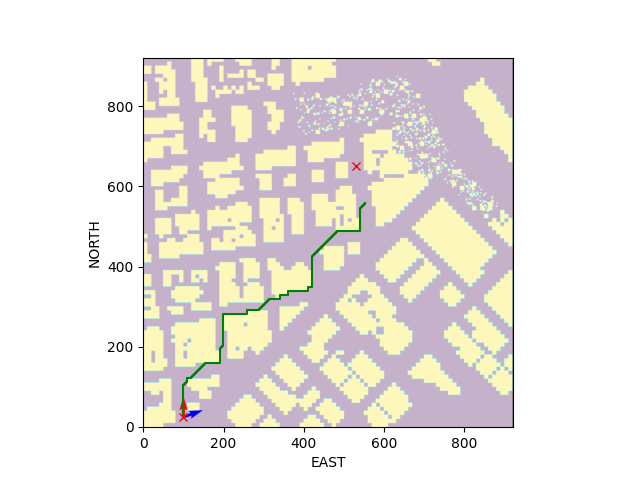
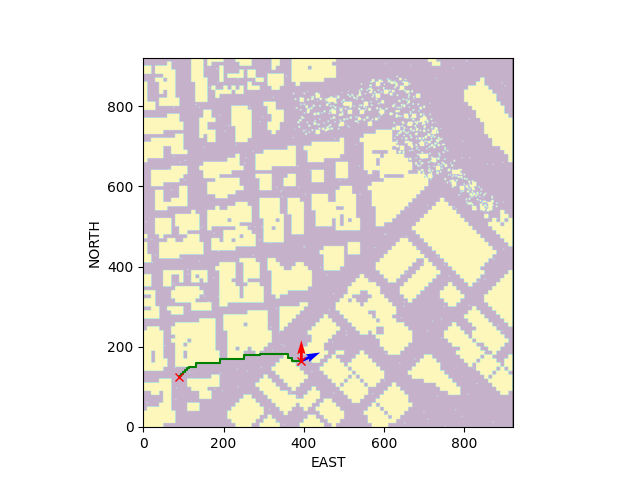
1. Added random obstacle generator. 2. Code refactoring

diff --git a/collision_avoidance_simulation.py b/collision_avoidance_simulation.py
@@ -1,7 +1,7 @@
 import config_extractor as config
 import map as mp
 import numpy as np
-from LIDAR_simulation import LIDAR, get_obstacle_vector
+from LIDAR_simulation import LIDAR, get_vector_angle
 from typing import List
 from math import cos, sin
 import matplotlib.pyplot as plt
@@ -9,7 +9,7 @@ import matplotlib.pyplot as plt
 """ === Functions to get Vector Field Histogram === """
 
 
-def show_histogram(h: np.array, grid: np.array, current_location: tuple, steering_direction=None, skeleton=None) -> None:
+def show_histogram(h: np.array, current_location: tuple, steering_direction=None, skeleton=None, grid=None, target_node=None) -> None:
     """
     The function is using plt to plot the histogram and
     the map of the environment as subplots
@@ -26,20 +26,22 @@ def show_histogram(h: np.array, grid: np.array, current_location: tuple, steerin
     ax1.set_ylabel('Probability')
     ax1.set_title('Vector Field Histogram')
     # plot grid
-    ax2.imshow(grid, origin='lower')
-    if skeleton: ax2.imshow(skeleton, cmap='Greys', origin='lower', alpha=0.7)
-    ax2.set_xlabel('North')
-    ax2.set_ylabel('East')
-    ax2.set_title('Environment map')
-    # show the current location
-    ax2.plot(current_location[1], current_location[0], 'rx')
+    if grid is not None:
+        ax2.imshow(grid, origin='lower')
+        if skeleton: ax2.imshow(skeleton, cmap='Greys', origin='lower', alpha=0.7)
+        ax2.set_xlabel('North')
+        ax2.set_ylabel('East')
+        ax2.set_title('Environment map')
+        # show the current location
+        ax2.plot(current_location[1], current_location[0], 'rx')
+        ax2.figure.set_size_inches(10, 10)
     # show 0 angle vector
     plt.quiver(current_location[1], current_location[0], sin(0) * 1, cos(0) * 1, color='r')
     # show the steering direction
     if steering_direction: plt.quiver(current_location[1], current_location[0],
                                       sin(np.radians(steering_direction)), cos(np.radians(steering_direction)),
                                       color='b')
-    ax2.figure.set_size_inches(10, 10)
+    if target_node: plt.plot(target_node[1], target_node[0], 'gx')
     # adjusting spacing between subplots
     plt.tight_layout()
     plt.show()
@@ -137,8 +139,6 @@ def get_certainty_values(measurements: List[tuple]) -> np.array:
 def smooth_histogram(h: List[int], l: int) -> np.array:
     """ Initial mapping may appear ragged and cause errors in the selection of the steering direction
     The function suggest to consider smooth the graph for better angle selection
-    Smoothing formula:
-    h[i] =
     :parameter
     h is a polar obstacle density
     l is a constant integer, chosen by experiment or simulation.
@@ -146,7 +146,6 @@ def smooth_histogram(h: List[int], l: int) -> np.array:
     :returns: smoothed polar obstacle density as List[float]
     """
     hist = np.array(h, dtype=int)
-    print(hist)
     smoothed_data = []
     # cumulative = 0 # cumulative sum
     for i in range(len(hist)):
@@ -227,7 +226,7 @@ def get_vfh(measurements: List[tuple], alpha: int, b: int, a=None) -> np.array:
     return normalized_histogram
 
 
-def get_rotation_angle(h: np.array, next_node=None, current_node=None, threshold=0.0) -> int:
+def get_rotation_angle(h: np.array, current_node: tuple, next_node=None, threshold=0.0) -> int:
     """ Get the angle with the lowest probability of the obstacles ahead 
     :param h is histogram represented as np.array with a shape (n, 0)
     :param threshold in % specifies the minimum obstacle probability acceptable as obstacle-free path
@@ -236,8 +235,6 @@ def get_rotation_angle(h: np.array, next_node=None, current_node=None, threshold
     """
     # determining angle that is the closest to the target point
     obstacle_free_sectors: List[int] = np.where(h <= threshold)[0]
-    print(obstacle_free_sectors)
-    print(h)
     assert len(obstacle_free_sectors) > 0
     # merge neighbor sectors
     merged_sectors: List[list] = []
@@ -257,19 +254,15 @@ def get_rotation_angle(h: np.array, next_node=None, current_node=None, threshold
             wide_sector.append(current_value)
             merged_sectors.append(wide_sector)
             wide_sector = []
-    desired_angle = get_obstacle_vector(next_node=next_node, current_node=current_node)*180/np.pi
+    desired_angle = get_vector_angle(next_node=next_node, current_node=current_node) * 180 / np.pi
     # select the angle closest to the desired angle
     if desired_angle < 0:
         desired_angle += 360
     desired_angle = np.floor(desired_angle/config.get('sector_angle'))
-    print('DESIRED ANGLE: ', desired_angle*config.get('sector_angle')) # TODO: remove print statements
-    # print('OBSTACLE FREE SECTORS', obstacle_free_sectors, len(obstacle_free_sectors))
     minimums_diff = list(map(lambda x: abs(x-desired_angle), obstacle_free_sectors))
     best_angle = obstacle_free_sectors[minimums_diff.index(min(minimums_diff))]
     # convert angle to degrees
     best_angle *= config.get('sector_angle')
-    # print('Differences: ', minimums_diff, len(obstacle_free_sectors), minimums_diff.index(min(minimums_diff)))
-    # print('BEST ANGLE: ', best_angle)
     return best_angle
 
 
@@ -298,7 +291,8 @@ if __name__ == '__main__':
     histogram = get_vfh(measurements=lidar.get_values(),
                         alpha=sector_angle, b=b)
     """ Path selection with lowest probability of obstacles """
-    angle = get_rotation_angle(h=histogram, threshold=config.get('vfh_threshold'))
+    angle = get_rotation_angle(h=histogram, threshold=config.get('vfh_threshold'),
+                               current_node=wheelchair.current_position)
     print('NEXT ROTATION ANGLE and VALUE')
     print(angle)
     wheelchair.current_angle = float(angle) # update wheelchair steering direction

diff --git a/behavioral_model.py b/behavioral_model.py
@@ -4,8 +4,9 @@ from typing import Optional, Tuple
 from enum import Enum
 from collision_avoidance_simulation import get_vfh, get_rotation_angle, show_histogram
 from math import sin, cos, radians
-from LIDAR_simulation import LIDAR, get_distance
+from LIDAR_simulation import LIDAR, get_distance, get_vector_angle
 import config_extractor as config
+import time
 
 
 class WheelchairStatus(Enum):
@@ -39,7 +40,7 @@ class IntelligentWheelchair:
     width: float
     height: Optional[float]
     battery_level: float
-    status: WheelchairStatus
+    status: str
     lidar: LIDAR
 
     def __init__(self, current_position: tuple, current_angle: float, lidar: LIDAR):
@@ -47,7 +48,7 @@ class IntelligentWheelchair:
         Set the values by default, such as status of the wheelchair
         The position vector is essential to determine the next maneuver to be correctly calculated
         """
-        self.status = WheelchairStatus.IDLE
+        self.status = WheelchairStatus.IDLE.value
         self.current_position = current_position  # (y, x)
         self.current_angle = current_angle
         self.lidar = lidar
@@ -74,32 +75,46 @@ class IntelligentWheelchair:
         The function is calculating the current position and vector
         to determine the rotation angle required and
         """
-        # get parameters required for vfh calculation
+        # get parameters required for vfh calculation FIXME
         sector_angle: int = config.get('sector_angle')  # degrees
         a, b = config.get('a'), config.get('b')
         distance_tolerance = config.get('distance_tolerance')  # in meters
+        vfh_threshold: float = config.get('vfh_threshold')
 
-        previous_node = self.current_position
-        self.status = WheelchairStatus.MOVING
-        # reached_target: bool = (get_distance(target_node, self.current_position) < distance_tolerance)
-        # while not reached_target:
-        """==== Path selection with lowest probability of obstacles ===="""
-        histogram = get_vfh(measurements=self.lidar.get_values(), alpha=sector_angle, b=b)
-        angle = get_rotation_angle(h=histogram,
-                                   threshold=config.get('vfh_threshold'),
-                                   current_node=previous_node,
-                                   next_node=target_node)
-        # update self steering direction and current node
-        self.current_angle = float(angle)
-        distance = get_distance(target_node, previous_node)  # on average, the wheelchair is moving 1 meter
-        next_node = (distance * cos(radians(angle)) + previous_node[0],
-                     distance * sin(radians(angle)) + previous_node[1])
-        self.current_position = next_node
-        self.lidar.scan(grid, current_location=self.current_position)
-        # show the result
-        print(f"Current location:\t {self.current_position}\n"
-              f"Previous location:\t {previous_node}\n"
-              f"Steering direction:\t {angle}")
+        start_time = time.time()
+        self.status = WheelchairStatus.MOVING.value
+        reached_target: bool = (get_distance(target_node, self.current_position) < distance_tolerance)
+        # target_reachable: bool = histogram[int(get_vector_angle(target_node, self.current_position)/config.get('sector_angle'))] > vfh_threshold
+
+        while not reached_target:
+            """==== Path selection with lowest probability of obstacles ===="""
+            histogram = get_vfh(measurements=self.lidar.get_values(), alpha=sector_angle, b=b)
+            angle     = get_rotation_angle(h=histogram, threshold=vfh_threshold,
+                                           current_node=self.current_position,
+                                           next_node=target_node)
+            if round(abs(angle-self.current_angle)) == 180:
+                break
+            distance = get_distance(target_node, self.current_position)  # on average, the wheelchair is moving 1 meter
+            next_node = (distance * cos(radians(angle)) + self.current_position[0],
+                         distance * sin(radians(angle)) + self.current_position[1])
+            # update self steering direction and current node
+            self.current_position = next_node
+            self.current_angle = float(angle)
+            self.lidar.scan(grid, current_location=self.current_position)
+            reached_target: bool = (distance < distance_tolerance)
+            print('DISTANCE', round(distance, 2))
+            time_diff = time.time()-start_time
+            if time_diff > 10:
+                show_histogram(h=histogram,
+                               grid=grid,
+                               current_location=self.current_position,
+                               steering_direction=self.current_angle)
+                start_time = time.time()
+            # show the result
+            print(f"Current location:\t {self.current_position}\n"
+                  f"Target location:\t {target_node}\n"
+                  f"Steering direction:\t {self.current_angle}")
+
         if show_map: show_histogram(h=histogram,
                                     grid=grid,
                                     current_location=self.current_position,
@@ -107,7 +122,7 @@ class IntelligentWheelchair:
         self.stop()
 
     def stop(self) -> None:
-        self.status = WheelchairStatus.WAITING
+        self.status = WheelchairStatus.WAITING.value
         pass
 
 

diff --git a/LIDAR_simulation.py b/LIDAR_simulation.py
@@ -8,7 +8,7 @@ import math
 import matplotlib.pyplot as plt
 
 
-def get_obstacle_vector(next_node: tuple, current_node: tuple) -> float:
+def get_vector_angle(next_node: tuple, current_node: tuple) -> float:
     """
     Returns arctan between two points as radians
     """
@@ -76,8 +76,6 @@ class LIDAR:
         indices_within_radius = np.where(distances <= self.measuring_radius)
         # Get the coordinates of the cells within the radius
         coordinates_within_radius = np.transpose(indices_within_radius)
-        # print('SCANNING AREA COORDINATES') # TODO: remove
-        # pprint(coordinates_within_radius)
         return coordinates_within_radius
 
     def scan(self, grid: np.array, current_location: tuple) -> None:
@@ -92,7 +90,7 @@ class LIDAR:
             x, y = coor[0], coor[1] # get the coordinates x and y
             if grid[x, y] == 1: # if obstacle is detected
                 distance: float = np.sqrt((current_location[0] - x)**2 + (current_location[1] - y)**2)
-                angle:    float = get_obstacle_vector(current_node=current_location, next_node=(x, y))
+                angle:    float = get_vector_angle(current_node=current_location, next_node=(x, y))
                 record = (angle, distance) # compress the data into tuple
                 self.measurement_results.put(record)
         print('ENVIRONMENT HAS BEEN SCANNED')

diff --git a/map.py b/map.py
@@ -335,11 +335,27 @@ def select_point(grid: np.array, skeleton: np.array, start=None, goal=None, titl
     return location
 
 
-def add_obstacles(grid: np.array, obstacle) -> None:
+def add_obstacles(grid: np.array, n: int) -> None:
     """ The function add the obstacle locations to the main map
     and save the new map to the csv file.
     It allows to test the obstacle avoidance system and A* algorithm,
     in case no maneuvers are available
     """
-    # TODO: add method
-    pass
+    # Get the dimensions of the grid TODO: test
+    indices = np.argwhere(grid == 0)
+
+    # If there are fewer available indices than the desired number of obstacles, return the grid as is
+    if len(indices) < n:
+        return grid
+
+    # Randomly select n indices from the available indices
+    selected_indices = np.random.choice(len(indices), n, replace=False)
+    selected_coordinates: np.array = indices[selected_indices]
+
+    # Set the selected indices to 1
+    for coord in selected_coordinates:
+        x, y = coord[0], coord[1]
+        grid[(x+1, y+1)] = 1
+        grid[(x+1, y)]   = 1
+        grid[(x, y+1)]   = 1
+        grid[(x, y)]     = 1

diff --git a/main.py b/main.py
@@ -58,7 +58,9 @@ if __name__ == '__main__':
     # map.save_grid(path_file_name, absolute_path)
     # absolute_path: np.array = map.read_grid(file_path=path_file_name, dtype=np.int)  # read predefined path
     """=== Show map === """
-    # map.show_map(grid=grid, skeleton=skeleton, path=absolute_path, start=start_default, goal=goal, save_path='./data_storage/images/images.png')
+    map.add_obstacles(grid, n=200)
+
+    map.show_map(grid=grid, skeleton=skeleton, path=absolute_path, start=start_default, goal=goal, save_path='./data_storage/images/images.png')
     # map.animate_path(absolute_path, grid, absolute_path, skeleton,
     #                  start=start_default, goal=goal,
     #                  animation_speed=5)
@@ -71,4 +73,4 @@ if __name__ == '__main__':
     # show the path followed by the wheelchair
     print(" TIME SPENT FOR MOVEMENT: ", time.time()-starting_time)
     map.animate_path(path=np.array(steps_taken), grid=grid, skeleton=skeleton)
-    print('FINAL DESTINATION: ', {absolute_path[-1]})
+    print('FINAL DESTINATION: ', absolute_path[-1])
